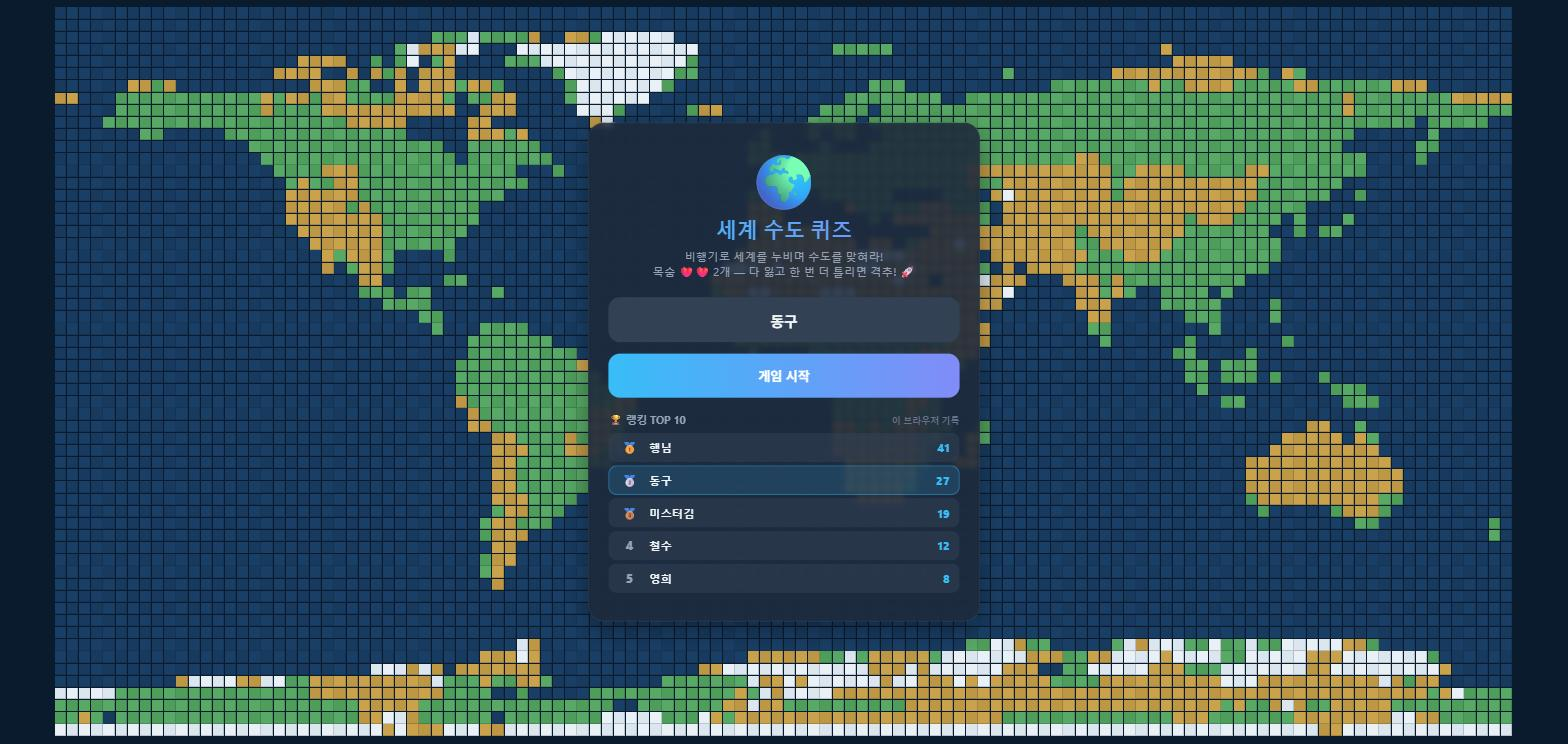
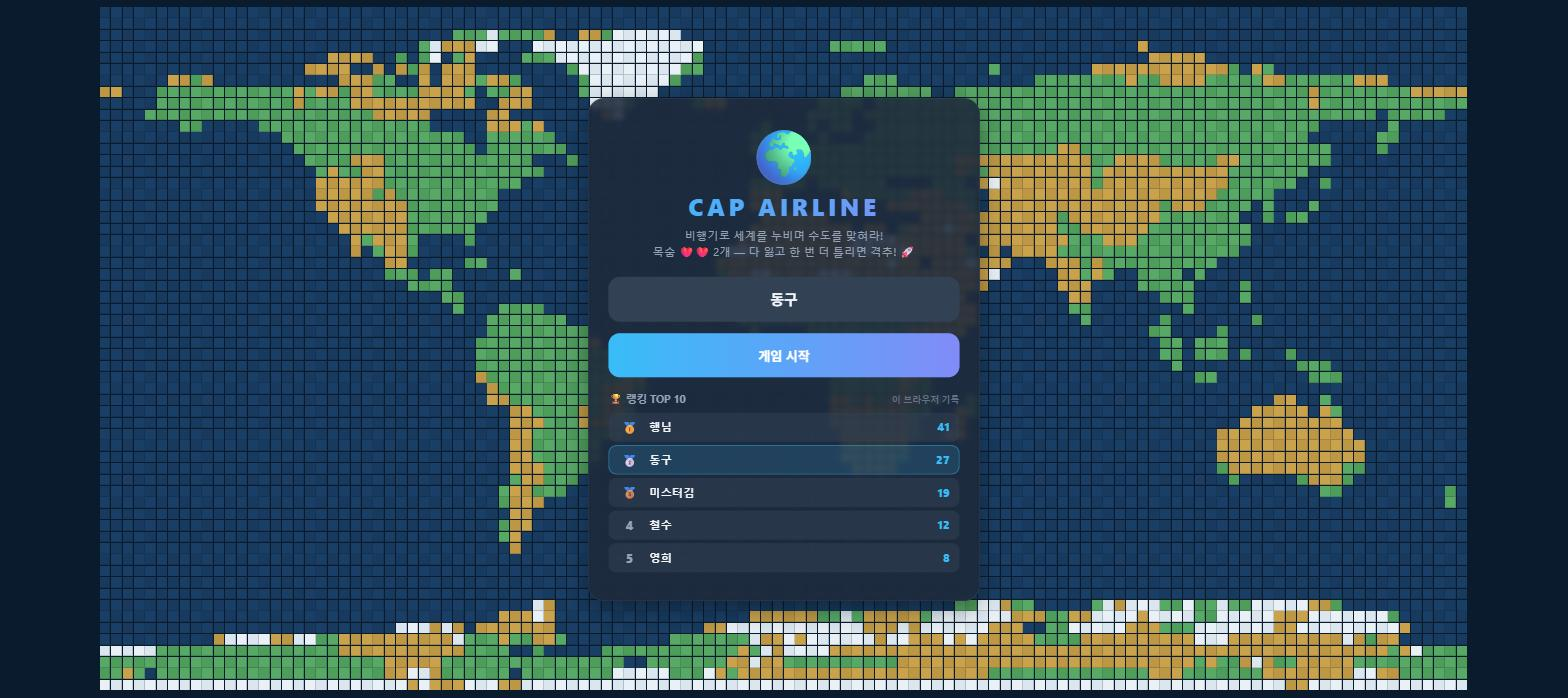
게임 이름을 CAP AIRLINE으로 변경
- 문서 제목, <title>, OG/트위터 태그, 시작 화면 워드마크 전부 교체
- 로마자 워드마크에 맞춰 .title 자간 확대(-0.5px → 4px), 크기 26 → 30px
- localStorage 키 접두사 wcq_ → cap_ (공개 전이라 지금 정리)
- README 시작 화면 스크린샷을 새 브랜딩으로 교체

diff --git a/index.html b/index.html
@@ -3,7 +3,7 @@
 <head>
 <meta charset="UTF-8">
 <meta name="viewport" content="width=device-width, initial-scale=1.0">
-<title>세계 수도 퀴즈</title>
+<title>CAP AIRLINE</title>
 <meta name="description" content="비행기를 타고 세계를 누비며 각국의 수도를 맞히는 웹 게임. 틀리면 공해상에서 미사일이 날아온다 — 플레어를 뿌려 회피하라!">
 <meta name="theme-color" content="#0b1b2e">
 
@@ -15,8 +15,8 @@
         예) https://game.example.com/  ·  https://game.example.com/docs/play.jpg
         상대 경로는 미리보기 크롤러가 못 읽는 경우가 많다. -->
 <meta property="og:type" content="website">
-<meta property="og:site_name" content="세계 수도 퀴즈">
-<meta property="og:title" content="🌍 세계 수도 퀴즈 — 비행기 타고 세계일주">
+<meta property="og:site_name" content="CAP AIRLINE">
+<meta property="og:title" content="🌍 CAP AIRLINE — 비행기 타고 세계일주">
 <meta property="og:description" content="100개국을 날아다니며 수도를 맞혀라. 틀리면 미사일이 날아온다 — 플레어를 뿌려 회피하라!">
 <meta property="og:image" content="docs/play.jpg">
 <meta property="og:image:width" content="1568">
@@ -25,7 +25,7 @@
 <meta property="og:url" content="">
 <meta property="og:locale" content="ko_KR">
 <meta name="twitter:card" content="summary_large_image">
-<meta name="twitter:title" content="🌍 세계 수도 퀴즈 — 비행기 타고 세계일주">
+<meta name="twitter:title" content="🌍 CAP AIRLINE — 비행기 타고 세계일주">
 <meta name="twitter:description" content="100개국을 날아다니며 수도를 맞혀라. 틀리면 미사일이 날아온다 — 플레어를 뿌려 회피하라!">
 <meta name="twitter:image" content="docs/play.jpg">
 <style>
@@ -239,11 +239,11 @@
     50%      { opacity: .35; }
   }
   body:not(.flying) #hud { display: none; }
-  .title {
+  .title {   /* 로마자 워드마크라 자간을 벌려야 항공사 로고처럼 읽힌다 */
     text-align: center;
-    font-size: 26px;
+    font-size: 30px;
     font-weight: 800;
-    letter-spacing: -.5px;
+    letter-spacing: 4px;
     background: linear-gradient(90deg, var(--accent), var(--accent2));
     -webkit-background-clip: text;
     background-clip: text;
@@ -561,7 +561,7 @@
     <!-- 시작 화면 -->
     <div id="start-screen">
       <div class="flag">🌍</div>
-      <div class="title">세계 수도 퀴즈</div>
+      <div class="title">CAP AIRLINE</div>
       <div class="subtitle">비행기로 세계를 누비며 수도를 맞혀라!<br>
         목숨 ❤❤ 2개 — 다 잃고 한 번 더 틀리면 격추! 🚀</div>
       <input type="text" class="answer-input" id="player-name" maxlength="12"
@@ -725,7 +725,7 @@
   const startRank = document.getElementById("start-rank");
   const resultRank = document.getElementById("result-rank");
 
-  let playerName = localStorage.getItem("wcq_name") || "";   // 랭킹에 쓸 이름
+  let playerName = localStorage.getItem("cap_name") || "";   // 랭킹에 쓸 이름
 
   // 비행 레이어 요소
   const planeEl = document.getElementById("plane");
@@ -1028,13 +1028,13 @@ iiiiiiiiiiiiiiiiiiiiiiiiiiididddiiiddiiiiiiiiiiiiiiiiiiiiiiiiiiiiiiiiiiiiiiiiiii
 
   // 로컬 기록 { 이름: 최고점 }
   function localScores() {
-    try { return JSON.parse(localStorage.getItem("wcq_scores") || "{}"); } catch { return {}; }
+    try { return JSON.parse(localStorage.getItem("cap_scores") || "{}"); } catch { return {}; }
   }
   function localBest(name) { return localScores()[name] ?? -1; }
   function localSubmit(name, score) {
     const s = localScores();
     if (score > (s[name] ?? -1)) s[name] = score;
-    localStorage.setItem("wcq_scores", JSON.stringify(s));
+    localStorage.setItem("cap_scores", JSON.stringify(s));
   }
   function localTop(n) {
     return Object.entries(localScores())
@@ -1102,7 +1102,7 @@ iiiiiiiiiiiiiiiiiiiiiiiiiiididddiiiddiiiiiiiiiiiiiiiiiiiiiiiiiiiiiiiiiiiiiiiiiii
   const sfxBtn = document.getElementById("sfx-btn");
   let actx = null;                 // 첫 사용자 클릭 이후에 생성 (브라우저 정책)
   let noiseBuf = null;
-  let muted = localStorage.getItem("wcq_muted") === "1";
+  let muted = localStorage.getItem("cap_muted") === "1";
 
   function ac() {
     if (muted) return null;
@@ -1167,7 +1167,7 @@ iiiiiiiiiiiiiiiiiiiiiiiiiiididddiiiddiiiiiiiiiiiiiiiiiiiiiiiiiiiiiiiiiiiiiiiiiii
   };
   function setMuted(v) {
     muted = v;
-    localStorage.setItem("wcq_muted", v ? "1" : "0");
+    localStorage.setItem("cap_muted", v ? "1" : "0");
     sfxBtn.textContent = v ? "🔇" : "🔊";
   }
   setMuted(muted);
@@ -1758,7 +1758,7 @@ iiiiiiiiiiiiiiiiiiiiiiiiiiididddiiiddiiiiiiiiiiiiiiiiiiiiiiiiiiiiiiiiiiiiiiiiiii
     }
     playerName = n;
     nameInput.value = n;
-    localStorage.setItem("wcq_name", n);
+    localStorage.setItem("cap_name", n);
     startGame();
   }
   function backToStart() {                     // 결과 화면 → 시작 화면(이름 변경)

diff --git a/CLAUDE.md b/CLAUDE.md
@@ -1,4 +1,4 @@
-# 세계 수도 퀴즈 (World Capital Quiz)
+# CAP AIRLINE
 
 비행기를 타고 세계를 누비며 각국의 수도를 맞히는 웹 게임. 순수 HTML/CSS/JS 단일 파일이라
 설치·빌드 없이 브라우저에서 바로 실행된다.
@@ -28,7 +28,7 @@
 - **외부 의존성**: 국기 이미지(`https://flagcdn.com/w160/<code>.png`) 뿐. 그 외 전부 자체 포함.
 
 ## 게임 규칙
-- 시작 전 **이름 입력** 필수. 이름은 `localStorage["wcq_name"]`에 저장돼 다음 방문에 자동으로 채워진다.
+- 시작 전 **이름 입력** 필수. 이름은 `localStorage["cap_name"]`에 저장돼 다음 방문에 자동으로 채워진다.
 - 게임오버 시 점수가 랭킹에 등록되고, 시작/결과 화면에 **이름별 최고 점수 TOP 10**이 뜬다
   (내 이름 행은 파랗게 강조). 셋업은 "온라인 랭킹 셋업" 참고.
 - **목숨 ❤❤ 2개**로 시작 (`MAX_LIVES`). 목숨이 0이 되면 HUD에 **"마지막 기회!"**가 뜨고,
@@ -101,7 +101,7 @@
 - `tone(f0, f1, dur, vol, type, when)` — 주파수가 미끄러지는 오실레이터
 - `noiseHit(dur, vol, c0, c1, q, when)` — 로우패스 컷오프를 쓸며 감쇠하는 노이즈
 - `sfx.launch / warn / flare / boom / pop` — 발사·경고음·플레어·폭발·폭죽
-- HUD 우측 🔊 버튼(`#sfx-btn`)으로 음소거 토글, `localStorage["wcq_muted"]`에 저장
+- HUD 우측 🔊 버튼(`#sfx-btn`)으로 음소거 토글, `localStorage["cap_muted"]`에 저장
 
 ### 이펙트 시스템 (단일 `fxLoop`)
 한 canvas(`#fx`)에서 전부 렌더. 렌더 순서가 곧 레이어 순서다:

diff --git a/README.md b/README.md
@@ -1,4 +1,4 @@
-# 🌍 세계 수도 퀴즈 (World Capital Quiz)
+# 🌍 CAP AIRLINE
 
 비행기를 타고 세계를 누비며 각국의 수도를 맞히는 웹 게임.
 **HTML 파일 하나**가 게임의 전부다. 설치도, 빌드도, 서버도 필요 없다.
